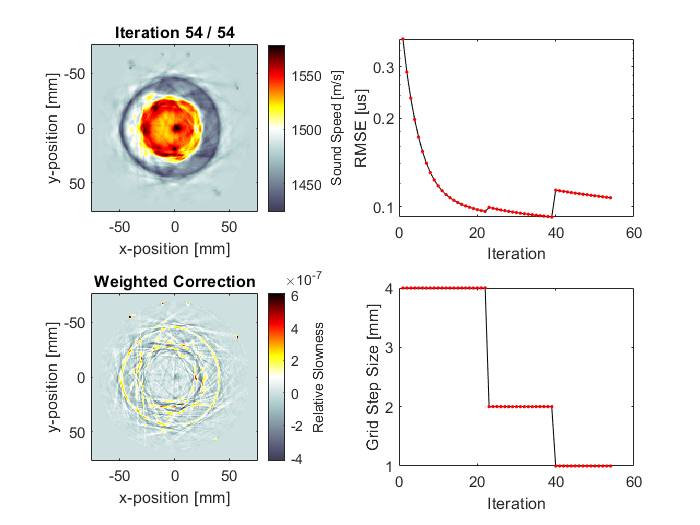
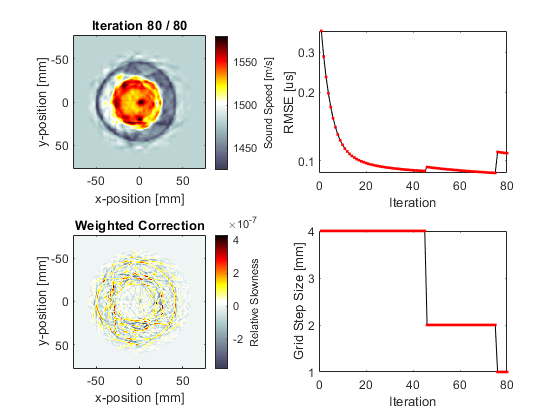
updating readme example and images

diff --git a/example/sart_example.m b/example/sart_example.m
@@ -13,23 +13,21 @@ delta_tof(logical(tril(ones(size(delta_tof)), -1))) = NaN;
 temperature = 20;   % water temperature [degC]
 sart        = SartExperiment(element_positions, delta_tof, temperature);
 
-% Use default reconstruction circle diameter, calculated for this geometry
+% Visualise default reconstruction circle diameter, calculated for this geometry
 recon_d = sart.default_recon_d;
-
-% Plot setup and data
 sart.plotSetup(recon_d=recon_d);
 
 % Perform reconstruction
 ups          = [1 * ones(1, 45), ...
                 2 * ones(1, 30),...
-                4]; % upsampling factors for each iteration
+                4 * ones(1, 5)]; % upsampling factors for each iteration
 Nit          = length(ups);  % number of iterations
 dx0          = 4e-3;         % step size for iteration 1 [m]
 init_c_val   = sart.c_water; % sound speed value for homogeneous initial estimate [m/s]
 hamming      = 1;            % boolean controlling whether hamming window is used
 border_width = 2;            % width of non-updating region at edge of reconstruction circle (integer multiples of dx0)
 sart.reconstructSart(init_c_val, Nit, dx0, ups, ...
-    recon_d=recon_d, border_width=border_width, hamming=hamming);
+    recon_d=0.135, border_width=border_width, hamming=hamming);
 
 % plot final estimate and save
 sart.plotReconResult(cRange=[1425, 1580]);

diff --git a/README.md b/README.md
@@ -72,29 +72,29 @@ delta_tof(logical(tril(ones(size(delta_tof)), -1))) = NaN;
 temperature = 20;   % water temperature [degC]
 sart        = SartExperiment(element_positions, delta_tof, temperature);
 
-% Use default reconstruction circle diameter, calculated for this geometry
+% Visualise default reconstruction circle diameter, calculated for this geometry
 recon_d = sart.default_recon_d;
-
-% Plot setup and data
 sart.plotSetup(recon_d=recon_d);
+
 ```
 ![setup_example](https://github.com/ucl-bug/ust-sart/blob/main/setup_example.png)
 ```
 % Perform reconstruction
 ups          = [1 * ones(1, 45), ...
                 2 * ones(1, 30),...
-                4]; % upsampling factors for each iteration
+                4 * ones(1, 5)]; % upsampling factors for each iteration
 Nit          = length(ups);  % number of iterations
 dx0          = 4e-3;         % step size for iteration 1 [m]
 init_c_val   = sart.c_water; % sound speed value for homogeneous initial estimate [m/s]
 hamming      = 1;            % boolean controlling whether hamming window is used
 border_width = 2;            % width of non-updating region at edge of reconstruction circle (integer multiples of dx0)
 sart.reconstructSart(init_c_val, Nit, dx0, ups, ...
-    recon_d=recon_d, border_width=border_width, hamming=hamming);
+    recon_d=0.135, border_width=border_width, hamming=hamming);
 
 % plot final estimate and save
 sart.plotReconResult(cRange=[1425, 1580]);
 sart.saveReconResult;
+
 ```
 
 ![recon_example](https://github.com/ucl-bug/ust-sart/blob/main/recon_example.png)
@@ -121,6 +121,7 @@ for tdx = 1:Ntdx
         delta_tof(tdx, rdx) = t_delta
     end
 end
+
 ```
 
 ![tof_pick_example](https://github.com/ucl-bug/ust-sart/blob/main/tof_pick_example.png)
